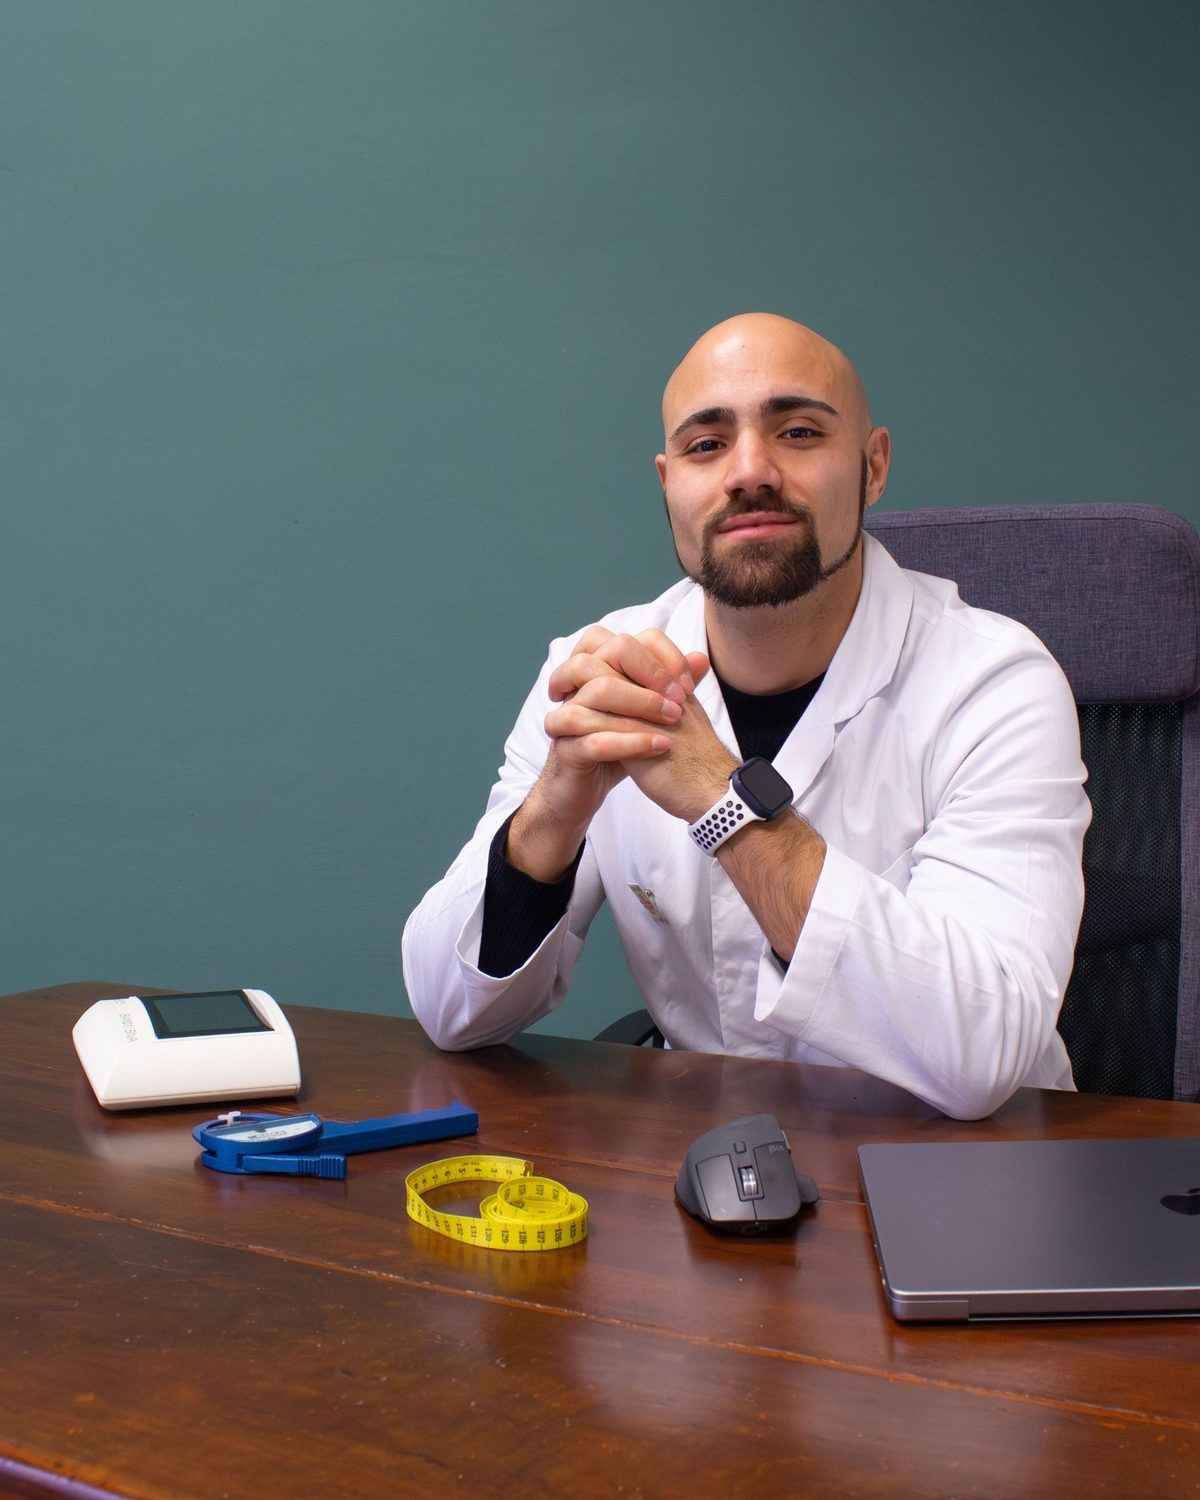
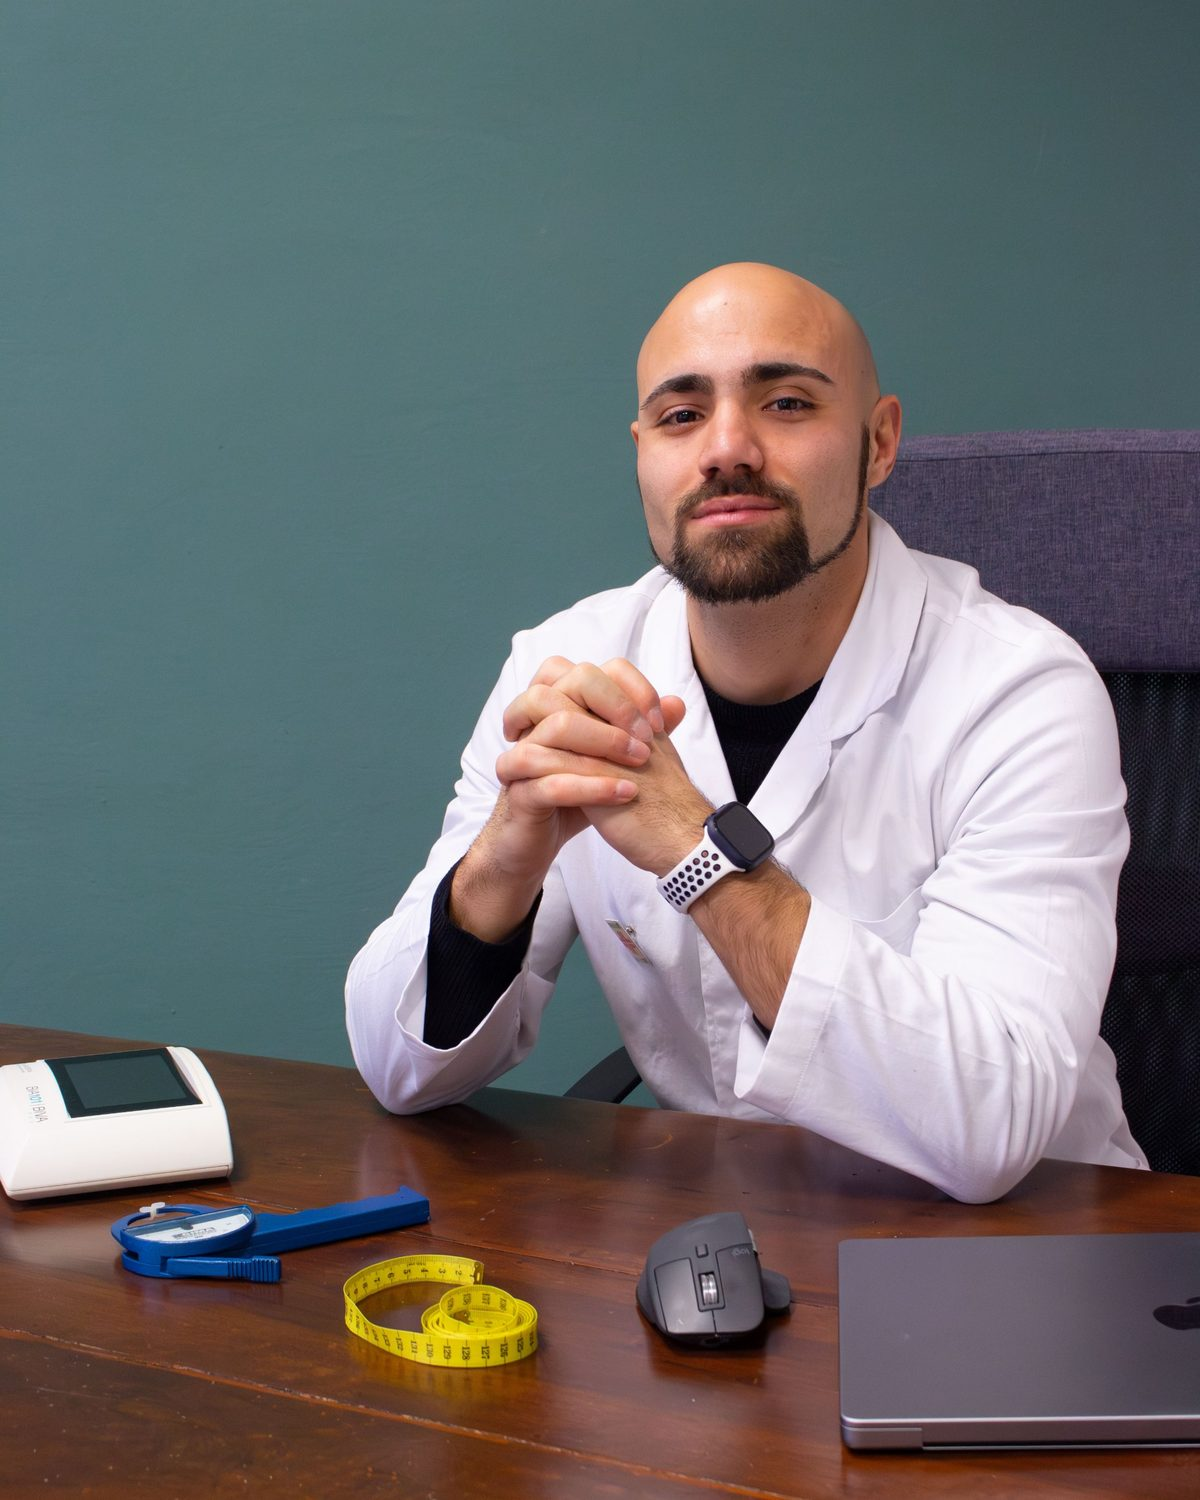
Sito: nuova foto di Giovanni nella sezione in alto
Claude-Session: https://claude.ai/code/session_01FsqA95DUtiDL1q4D8YwpeG

diff --git a/index.html b/index.html
@@ -233,7 +233,7 @@
           <svg viewBox="0 0 24 24" fill="none"><circle cx="12" cy="8" r="4" stroke="currentColor" stroke-width="1.8"/><path d="M4 21C4 16.5 7.5 14 12 14C16.5 14 20 16.5 20 21" stroke="currentColor" stroke-width="1.8" stroke-linecap="round"/></svg>
           Dott. Giovanni Murdaca
         </div>
-        <img src="foto-giovanni.jpg" alt="Il Dott. Giovanni Murdaca nel suo studio" width="1200" height="1500" fetchpriority="high">
+        <img src="foto-giovanni.jpg?v=2" alt="Il Dott. Giovanni Murdaca nel suo studio" width="1200" height="1500" fetchpriority="high">
       </div>
     </div>
   </section>
